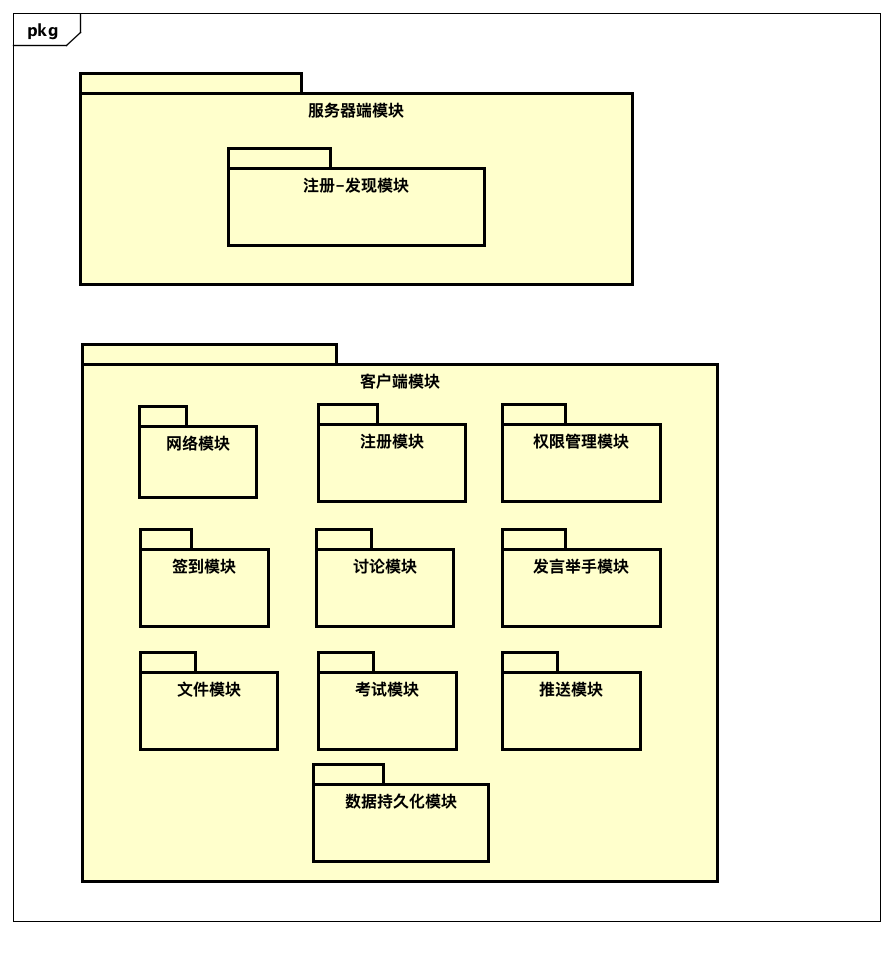
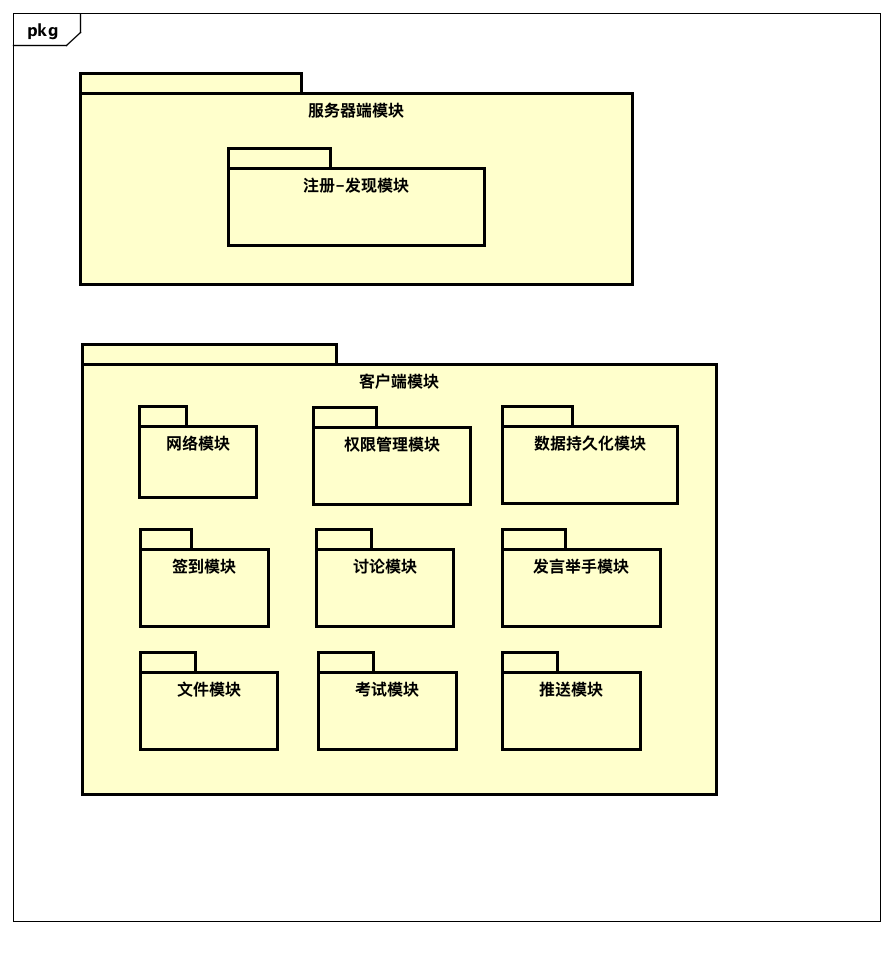
continue unifying the names

Changed region(s): [[0.0907, 0.8117, 0.8163, 0.9365], [0.3326, 0.3746, 0.5442, 0.5307], [0.5745, 0.4058, 0.7861, 0.5307]]

diff --git a/project/p2p/common.md b/project/p2p/common.md
@@ -9,7 +9,7 @@
 ## 3.2 第二次迭代
 ### 3.2.1 分解系统组件
 
-将**服务器节点**和**客户端**节点分别进行分解。**服务器节点**分解为**注册-发现模块**，**客户端节点**分解为**注册模块**、**网络模块**、**权限管理模块**、**签到模块**、**讨论模块**、**举手发言模块**、**文件模块**、**考试模块**、**推送模块**和**数据持久化模块**。
+将**服务器节点**和**客户端**节点分别进行分解。**服务器节点**分解为**注册-发现模块**，**客户端节点**分解为**网络模块**、**权限管理模块**、**签到模块**、**讨论模块**、**举手发言模块**、**文件模块**、**考试模块**、**推送模块**和**数据持久化模块**。
 
 ![](img/common/Iteration2.png)
 
@@ -659,7 +659,7 @@
 
 ## 3.10 第十次迭代
 ### 3.10.1 分解系统组件
-选择**文件管理模块**继续分解。
+选择**文件模块**继续分解。
 
 ### 3.10.2 确定架构驱动因素
 
@@ -820,12 +820,11 @@
 
 **模块视图**
 
-![](img/cjd/文件管理模块_模块视图.png)
+![](img/cjd/文件管理模块_模块视图.jpg)
 
 **C&C视图**
 
-![](img/cjd/文件管理模块_C&C视图.png)
-
+![](img/cjd/文件管理模块_C&C视图.jpg)
 
 ## 3.11 第十一次迭代
 
@@ -1020,3 +1019,4 @@
 ![](img/common/模块视图.png)
 
 ### 3.13.2 C&C视图
+![](img/common/C&C视图.png)
